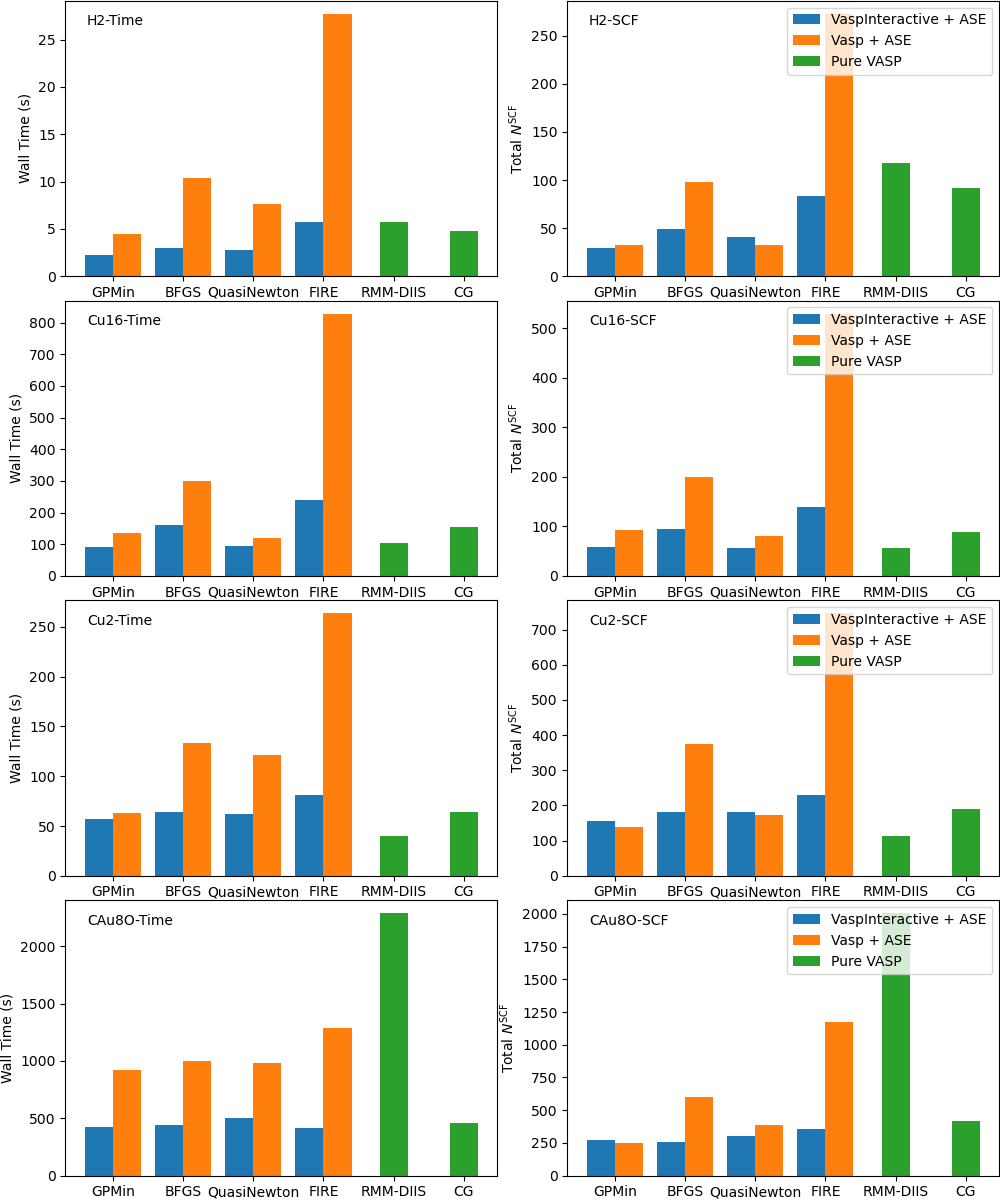
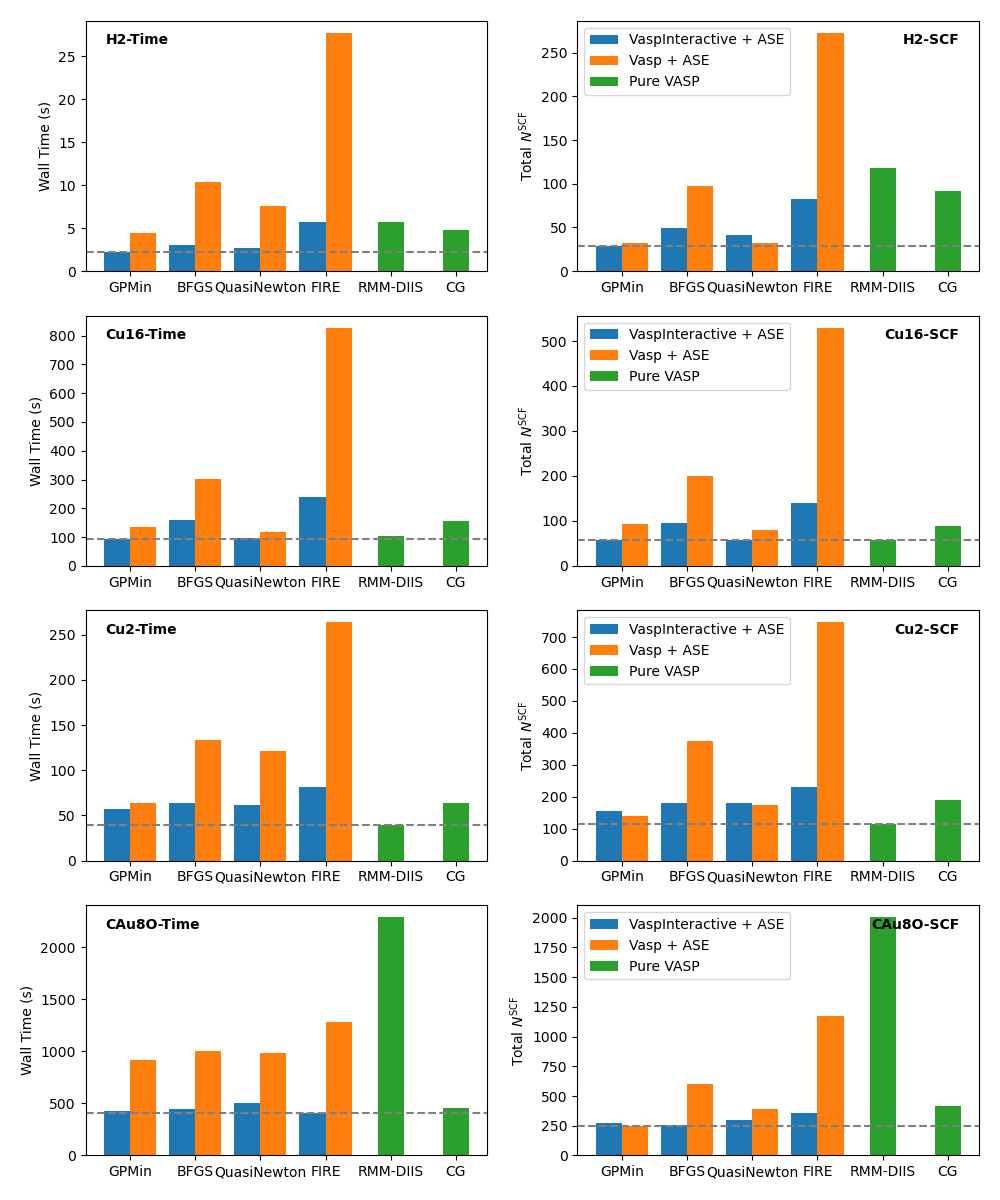
beautiful ex07

diff --git a/examples/ex07_benchmark2.py b/examples/ex07_benchmark2.py
@@ -27,7 +27,7 @@ from vasp_interactive import VaspInteractive
 from vasp_interactive.vasp_interactive import parse_outcar_iterations
 from ase.calculators.vasp import Vasp
 
-curdir = Path(__file__).parent 
+curdir = Path(__file__).parent
 systems = []
 with connect(curdir / "systems.db") as conn:
     for row in conn.select():
@@ -40,6 +40,7 @@ with connect(curdir / "systems.db") as conn:
 default_params = dict(xc="pbe", ismear=0, sigma=0.01, kspacing=0.5, kgamma=True, npar=4)
 fmax = 0.05
 
+
 def select_optimizer(method):
     """Use the method name to get optimizer. `method` is a string e.g. `GPMin`"""
     try:
@@ -47,6 +48,7 @@ def select_optimizer(method):
     except KeyError:
         opt = None
     return opt
+
 
 def patched_step(obj, opt):
     """Monkey patch of the step method to add record for the steps"""
@@ -56,6 +58,7 @@ def patched_step(obj, opt):
     n_elec = obj.atoms.calc.read_number_of_iterations()
     obj.n_elec_scf.append(n_elec)
     return
+
 
 # Following functions do the relaxation and returns ionic / electronic steps with wall time
 
@@ -107,6 +110,7 @@ def relax_vasp_ase(atoms, method="BFGS"):
         e = atoms.get_potential_energy()
     return e, n_ion, n_elec, t_wall
 
+
 def relax_vasp(atoms, method):
     assert method in ("RMM-DIIS", "CG")
     """Classic vasp"""
@@ -130,6 +134,7 @@ def relax_vasp(atoms, method):
 
 def compute():
     import pickle
+
     res_file = curdir / "benchmark-large.pkl"
     if res_file.is_file():
         with open(res_file, "rb") as fd:
@@ -138,7 +143,7 @@ def compute():
         results = dict()
 
     # Collect data, only the first 4 systems
-    selections = ['H2', 'Cu16', 'Cu2', 'CAu8O']
+    selections = ["H2", "Cu16", "Cu2", "CAu8O"]
     for i in range(len(selections)):
         atoms = systems[i]
         name = atoms.get_chemical_formula()
@@ -150,7 +155,7 @@ def compute():
             for method in ("GPMin", "BFGS", "QuasiNewton", "FIRE"):
                 print(f"\tUsing method {method}")
                 par_res = dict()
-               
+
                 print("\t\tVasp Interactive...")
                 par_res["vasp-inter"] = relax_vasp_interactive(atoms, method)
 
@@ -170,9 +175,11 @@ def compute():
 
     return results
 
+
 def plot_benchmark(results):
     import matplotlib.pyplot as plt
-    selections = ['H2', 'Cu16', 'Cu2', 'CAu8O']
+
+    selections = ["H2", "Cu16", "Cu2", "CAu8O"]
     fig, axes = plt.subplots(4, 2, figsize=(10, 12))
     for i, name in enumerate(selections):
         ax1 = axes[i][0]
@@ -199,19 +206,27 @@ def plot_benchmark(results):
         nrm = np.sum(nrm)
         ncg = np.sum(ncg)
 
-
         d = np.arange(4)
         w = 0.2
         ax1.bar(d - w, t1s, w * 2, label="VaspInteractive + ASE")
         ax1.bar(d + w, t2s, w * 2, label="Vasp + ASE")
         ax1.bar([4, 5], [trm, tcg], w * 2, label="Pure VASP")
-#         ax1.axhline(y=1, ls="--", color="grey")
+        arr = np.hstack([t1s, t2s, [trm, tcg]])
+        ax1.axhline(y=np.min(arr), ls="--", color="grey")
         ax1.set_xticks(np.arange(6))
         ax1.set_xticklabels(["GPMin", "BFGS", "QuasiNewton", "FIRE", "RMM-DIIS", "CG"])
-#         ax1.set_title("")
+        #         ax1.set_title("")
         ax1.set_ylabel("Wall Time (s)")
-        ax1.text(x=0.05, y=0.95, s=f"{name}-Time", ha="left", va="top", transform=ax1.transAxes)
-#         ax1.legend()
+        ax1.text(
+            x=0.05,
+            y=0.95,
+            s=f"{name}-Time",
+            ha="left",
+            va="top",
+            transform=ax1.transAxes,
+            fontweight="bold",
+        )
+        #         ax1.legend()
 
         # steps plot
         ax2.bar(d - w, n1s, w * 2, label="VaspInteractive + ASE")
@@ -219,12 +234,21 @@ def plot_benchmark(results):
         ax2.bar([4, 5], [nrm, ncg], w * 2, label="Pure VASP")
         ax2.set_xticks(np.arange(6))
         ax2.set_xticklabels(["GPMin", "BFGS", "QuasiNewton", "FIRE", "RMM-DIIS", "CG"])
-        ax2.text(x=0.05, y=0.95, s=f"{name}-SCF", ha="left", va="top", transform=ax2.transAxes)
-#         ax2.axhline(y=0, ls="--", color="grey")
+        ax2.text(
+            x=0.95,
+            y=0.95,
+            s=f"{name}-SCF",
+            ha="right",
+            va="top",
+            transform=ax2.transAxes,
+            fontweight="bold",
+        )
+        arr = np.hstack([n1s, n2s, [nrm, ncg]])
+        ax2.axhline(y=np.min(arr), ls="--", color="grey")
         ax2.set_ylabel(r"Total $N^{\mathrm{SCF}}$")
-        ax2.legend(loc=1)
+        ax2.legend(loc=0)
 
-    fig.tight_layout(pad=0.05)
+    fig.tight_layout(pad=1.5)
     fig.savefig(curdir / "benchmark-large.png")
 
 
@@ -242,12 +266,12 @@ def plot_benchmark(results):
 #     ax.set_xlabel("Ionic steps")
 #     ax.set_ylabel("Electronic SCF per Ionic Cycle")
 #     ax.set_title("CO on Au(111) surface (CAu8O)")
-    
+
 #     fig.tight_layout()
 #     fig.savefig(curdir / "details.png")
 
 if __name__ == "__main__":
-#     print(globals())
+    #     print(globals())
     results = compute()
     plot_benchmark(results)
 #     plot_details(results)

diff --git a/examples/ex06_benchmark.py b/examples/ex06_benchmark.py
@@ -16,7 +16,7 @@ from vasp_interactive import VaspInteractive
 from vasp_interactive.vasp_interactive import parse_outcar_iterations
 from ase.calculators.vasp import Vasp
 
-curdir = Path(__file__).parent 
+curdir = Path(__file__).parent
 systems = []
 with connect(curdir / "systems.db") as conn:
     for row in conn.select():
@@ -30,6 +30,7 @@ default_params = dict(xc="pbe", ismear=0, sigma=0.01, kspacing=0.5, kgamma=True,
 fmax = 0.05
 
 # Following functions do the relaxation and returns ionic / electronic steps with wall time
+
 
 def relax_vasp_interactive(atoms):
     """Vasp Interactive"""
@@ -61,7 +62,7 @@ def relax_vasp_bfgs(atoms):
         dyn = BFGS(atoms, logfile=None)
         n_elec = []
         n_ion = 1
-        
+
         # Use manual force threshold in order to read the iterations
         t_ = time()
         f = np.abs(atoms.get_forces()).max()
@@ -75,6 +76,7 @@ def relax_vasp_bfgs(atoms):
         t_wall = time() - t_
         e = atoms.get_potential_energy()
     return e, n_ion, n_elec, t_wall
+
 
 def relax_vasp(atoms):
     """Classic vasp"""
@@ -94,6 +96,7 @@ def relax_vasp(atoms):
 
 def compute():
     import pickle
+
     res_file = curdir / "benchmark.pkl"
     if res_file.is_file():
         with open(res_file, "rb") as fd:
@@ -128,8 +131,10 @@ def compute():
 
     return results
 
+
 def plot_benchmark(results):
     import matplotlib.pyplot as plt
+
     fig, axes = plt.subplots(1, 2, figsize=(10, 4))
     ax1 = axes[0]
     ax2 = axes[1]
@@ -137,7 +142,7 @@ def plot_benchmark(results):
     # N electronic steps
     n1s = []
     n2s = []
-    
+
     # time
     t1s = []
     t2s = []
@@ -151,8 +156,6 @@ def plot_benchmark(results):
         # time
         t1s.append(t1 / t3)
         t2s.append(t2 / t3)
-        
-        
 
     d = np.arange(len(results))
     w1 = 0.2
@@ -164,7 +167,7 @@ def plot_benchmark(results):
     ax1.set_title("Rel. Time to Pure VASP")
     ax1.set_ylabel(r"$t / t_{\mathrm{VASP}}$")
     ax1.legend()
-    
+
     # steps plot
     ax2.bar(d - w, n1s, w * 2, label="VaspInteractive + BFGS")
     ax2.bar(d + w, n2s, w * 2, label="Vasp + BFGS")
@@ -174,18 +177,21 @@ def plot_benchmark(results):
     ax2.set_title("Rel. Total Electronic SCFs to Pure VASP")
     ax2.set_ylabel(r"$N^{\mathrm{SCF}} - N^{\mathrm{SCF}}_{\mathrm{VASP}}$")
     ax2.legend()
-    
+
     fig.tight_layout()
     fig.savefig(curdir / "benchmark.png")
 
 
 def plot_details(results):
     import matplotlib.pyplot as plt
+
     fig, ax = plt.subplots(1, 1, figsize=(6, 4))
     name = "CAu8O"
-    disp_name = {"vasp-inter": "VaspInteractive + BFGS",
-                 "vasp-bfgs": "Vasp + BFGS",
-                 "vasp": "Pure VASP"}
+    disp_name = {
+        "vasp-inter": "VaspInteractive + BFGS",
+        "vasp-bfgs": "Vasp + BFGS",
+        "vasp": "Pure VASP",
+    }
     for met in ("vasp-inter", "vasp-bfgs", "vasp"):
         steps = results[name][met][2]
         ax.plot(steps, "-", label=disp_name[met])
@@ -193,9 +199,10 @@ def plot_details(results):
     ax.set_xlabel("Ionic steps")
     ax.set_ylabel("Electronic SCF per Ionic Cycle")
     ax.set_title("CO on Au(111) surface (CAu8O)")
-    
+
     fig.tight_layout()
     fig.savefig(curdir / "details.png")
+
 
 if __name__ == "__main__":
     results = compute()

diff --git a/examples/ex08_dask_par.py b/examples/ex08_dask_par.py
@@ -32,7 +32,6 @@ _m3 = molecule("C6H6", vacuum=5, pbc=True)
 _m4 = molecule("CH3COCH3", vacuum=5, pbc=True)
 
 
-
 def _dyn_run(atoms):
     """Run dynamics on atoms in Dask, return the relaxed energy and time"""
     fmax = 0.05
@@ -50,21 +49,19 @@ def _dyn_run(atoms):
 
 
 def run_all():
-    """Using Dask parallelism to split workloads
-    """
+    """Using Dask parallelism to split workloads"""
     # Init dask
     curdir = Path(__file__).parent
     yml_file = (curdir / "worker-cpu-spec.yml").as_posix()
     cluster = KubeCluster(yml_file)
     client = Client(cluster)
     cluster.adapt(minimum=0, maximum=4)
-    
-    
+
     calc = VaspInteractive(
-            ismear=0,
-            xc="pbe",
-            kpts=(1, 1, 1),
-        )
+        ismear=0,
+        xc="pbe",
+        kpts=(1, 1, 1),
+    )
     seq = [_m1.copy(), _m2.copy(), _m3.copy(), _m4.copy()]
     for atoms in seq:
         atoms.calc = calc
@@ -72,7 +69,7 @@ def run_all():
     t_ = time()
     seq_computed = dg.from_sequence(seq).map(_dyn_run).compute()
     t_wall = time() - t_
-    
+
     # Print results
     print("System\tTime (s)\tIonic steps")
     for i in range(len(seq)):

diff --git a/vasp_interactive/vasp_interactive.py b/vasp_interactive/vasp_interactive.py
@@ -30,10 +30,10 @@ class VaspInteractive(Vasp):
     name = "VaspInteractive"
     implemented_properties = Vasp.implemented_properties
     mandatory_input = {
-                "potim": 0.0,
-                "ibrion": -1,
-                "iwavpr": 11,
-                "interactive": True,
+        "potim": 0.0,
+        "ibrion": -1,
+        "iwavpr": 11,
+        "interactive": True,
     }
     # Enforce the job to be relaxation
     default_input = {
@@ -273,7 +273,6 @@ class VaspInteractive(Vasp):
         if not system_changes:
             # No need to calculate, calculator has stored calculated results
             return
-        
 
         # Currently VaspInteractive only handles change of positions (MD-like)
         if any([p in system_changes for p in ("numbers", "cell")]):
